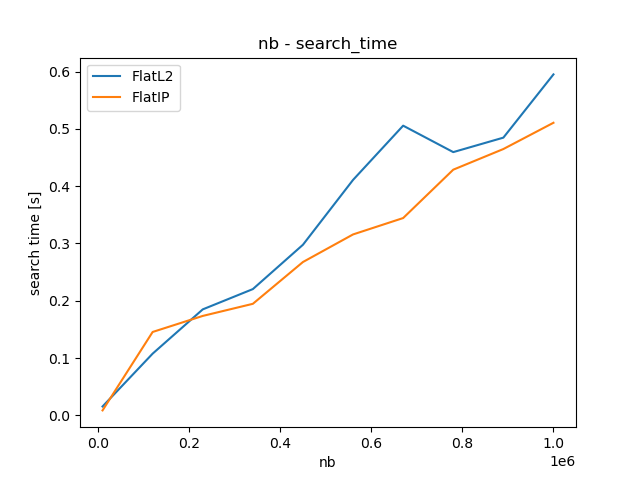
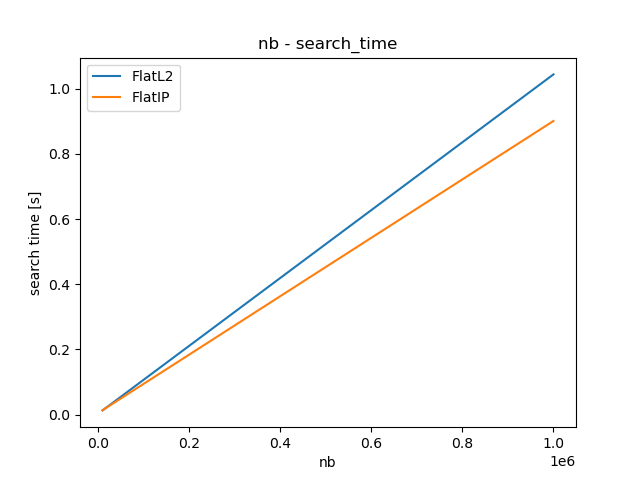
データのcsv化とグラフの出力を分離した。

diff --git a/compare.py b/compare.py
@@ -1,5 +1,7 @@
 import numpy as np
 import matplotlib.pyplot as plt
+import pandas as pd
+import torch
 
 from data.data import make_data
 from model.flatl2 import FlatL2
@@ -98,7 +100,7 @@ def plot_qps_hnsw():
   plt.title("recall - pqs")
 
   for i, ef in enumerate(efs):
-        plt.annotate(f"ef = {ef}", (recall_list[i], qps_list[i]), textcoords="offset points", xytext=(5,10), ha='center')
+    plt.annotate(f"ef = {ef}", (recall_list[i], qps_list[i]), textcoords="offset points", xytext=(5,10), ha='center')
 
   plt.legend()
   plt.savefig(f"data/fig/compare_recall_qps_{name_models}.png")
@@ -115,17 +117,19 @@ def main():
   ivfpq = IVFPQ(k = k, nlist = 100, m = 8)
   hnswFlat = HNSWFlat(k = k, m = 32)
   bi_hnsw = BinaryHNSW(k = k, m = 32)
-  gpuflatL2 = GpuFlatL2(k = k)
-  gpuivf = GpuIVF(k = k, nlist = 100, nprobe = 3)
-  gpuivfpq = GpuIVFPQ(k = k, nlist = 100, m = 8)
+  if torch.cuda.is_available():
+    gpuflatL2 = GpuFlatL2(k = k)
+    gpuivf = GpuIVF(k = k, nlist = 100, nprobe = 3)
+    gpuivfpq = GpuIVFPQ(k = k, nlist = 100, m = 8)
   # models = [flatL2, flatIP, flatL2pca, ivf, ivfpq, hnswFlat, bi_hnsw, gpuflatL2, gpuivf, gpuivfpq]
   models = [flatL2, flatIP]
+  name_models = '_'.join(model.name for model in models)
   
   # nb_list = np.logspace(4, 6, 10).astype("int")
-  nb_list = np.linspace(10**4, 10**6, 10).astype("int")
+  nb_list = np.linspace(10**4, 10**6, 2).astype("int")
   nq_list = [1000]
   d_list = [64]
-  n_trial = 1
+  n_trial = 2
   time_train_list = np.zeros((n_trial, len(models), len(nb_list)))
   time_add_list = np.zeros((n_trial, len(models), len(nb_list)))
   time_search_list = np.zeros((n_trial, len(models), len(nb_list)))
@@ -146,17 +150,43 @@ def main():
             _, _, time_search = model.search(xq)
             time_search_list[n_try][idx][idx_nb] = time_search
 
+  # pandas
+  df_time_train = pd.DataFrame()
+  df_time_train_list = [pd.DataFrame(time_train_list[i], columns = nb_list) for i in range(n_trial)]
+  for i in range(n_trial):
+    df_time_train_list[i]["trial"] = i+1
+    df_time_train_list[i]["model"] = [model.name for model in models]
+    df_time_train = pd.concat([df_time_train, df_time_train_list[i]], axis=0)
+  df_time_train.to_csv(f"data/csv/time_train_{name_models}.csv", index = False)
 
+  df_time_add = pd.DataFrame()
+  df_time_add_list = [pd.DataFrame(time_add_list[i], columns = nb_list) for i in range(n_trial)]
+  for i in range(n_trial):
+    df_time_add_list[i]["trial"] = i+1
+    df_time_add_list[i]["model"] = [model.name for model in models]
+    df_time_add = pd.concat([df_time_add, df_time_add_list[i]], axis=0)
+  df_time_add.to_csv(f"data/csv/time_add_{name_models}.csv", index = False)
+
+  df_time_search = pd.DataFrame()
+  df_time_search_list = [pd.DataFrame(time_search_list[i], columns = nb_list) for i in range(n_trial)]
+  for i in range(n_trial):
+    df_time_search_list[i]["trial"] = i+1
+    df_time_search_list[i]["model"] = [model.name for model in models]
+    df_time_search = pd.concat([df_time_search, df_time_search_list[i]], axis=0)
+  df_time_search.to_csv(f"data/csv/time_search_{name_models}.csv", index = False)
             
-  
+  # 読み取り
+  df_time_train_read = pd.read_csv(f"data/csv/time_train_{name_models}.csv")
+  df_time_train_read = df_time_train_read.drop(columns = "trial").groupby("model").mean()
+  df_time_add_read = pd.read_csv(f"data/csv/time_add_{name_models}.csv")
+  df_time_add_read = df_time_add_read.drop(columns = "trial").groupby("model").mean()
+  df_time_search_read = pd.read_csv(f"data/csv/time_search_{name_models}.csv")
+  df_time_search_read = df_time_search_read.drop(columns = "trial").groupby("model").mean()
+
   # 描画
-  time_train_list = np.mean(np.array(time_train_list), axis=(0))
-  time_add_list = np.mean(np.array(time_add_list), axis=(0))
-  time_search_list = np.mean(np.array(time_search_list), axis=(0))
-  name_models = '_'.join(model.name for model in models)
   plt.figure()
-  for idx, model in enumerate(models):
-    plt.plot(nb_list, time_train_list[idx], label=model.name)
+  for model in models:
+    plt.plot(nb_list, df_time_train_read.loc[model.name], label=model.name)
   plt.xlabel("nb")
   plt.ylabel("train time [s]")
   plt.title("nb - train_time")
@@ -165,8 +195,8 @@ def main():
   plt.show()
 
   plt.figure()
-  for idx, model in enumerate(models):
-    plt.plot(nb_list, time_add_list[idx], label=model.name)
+  for model in models:
+    plt.plot(nb_list, df_time_add_read.loc[model.name], label=model.name)
   plt.xlabel("nb")
   plt.ylabel("add time [s]")
   plt.title("nb - add_time")
@@ -175,8 +205,8 @@ def main():
   plt.show()
 
   plt.figure()
-  for idx, model in enumerate(models):
-    plt.plot(nb_list, time_search_list[idx], label=model.name)
+  for model in models:
+    plt.plot(nb_list, df_time_search_read.loc[model.name], label=model.name)
   plt.xlabel("nb")
   plt.ylabel("search time [s]")
   plt.title("nb - search_time")
